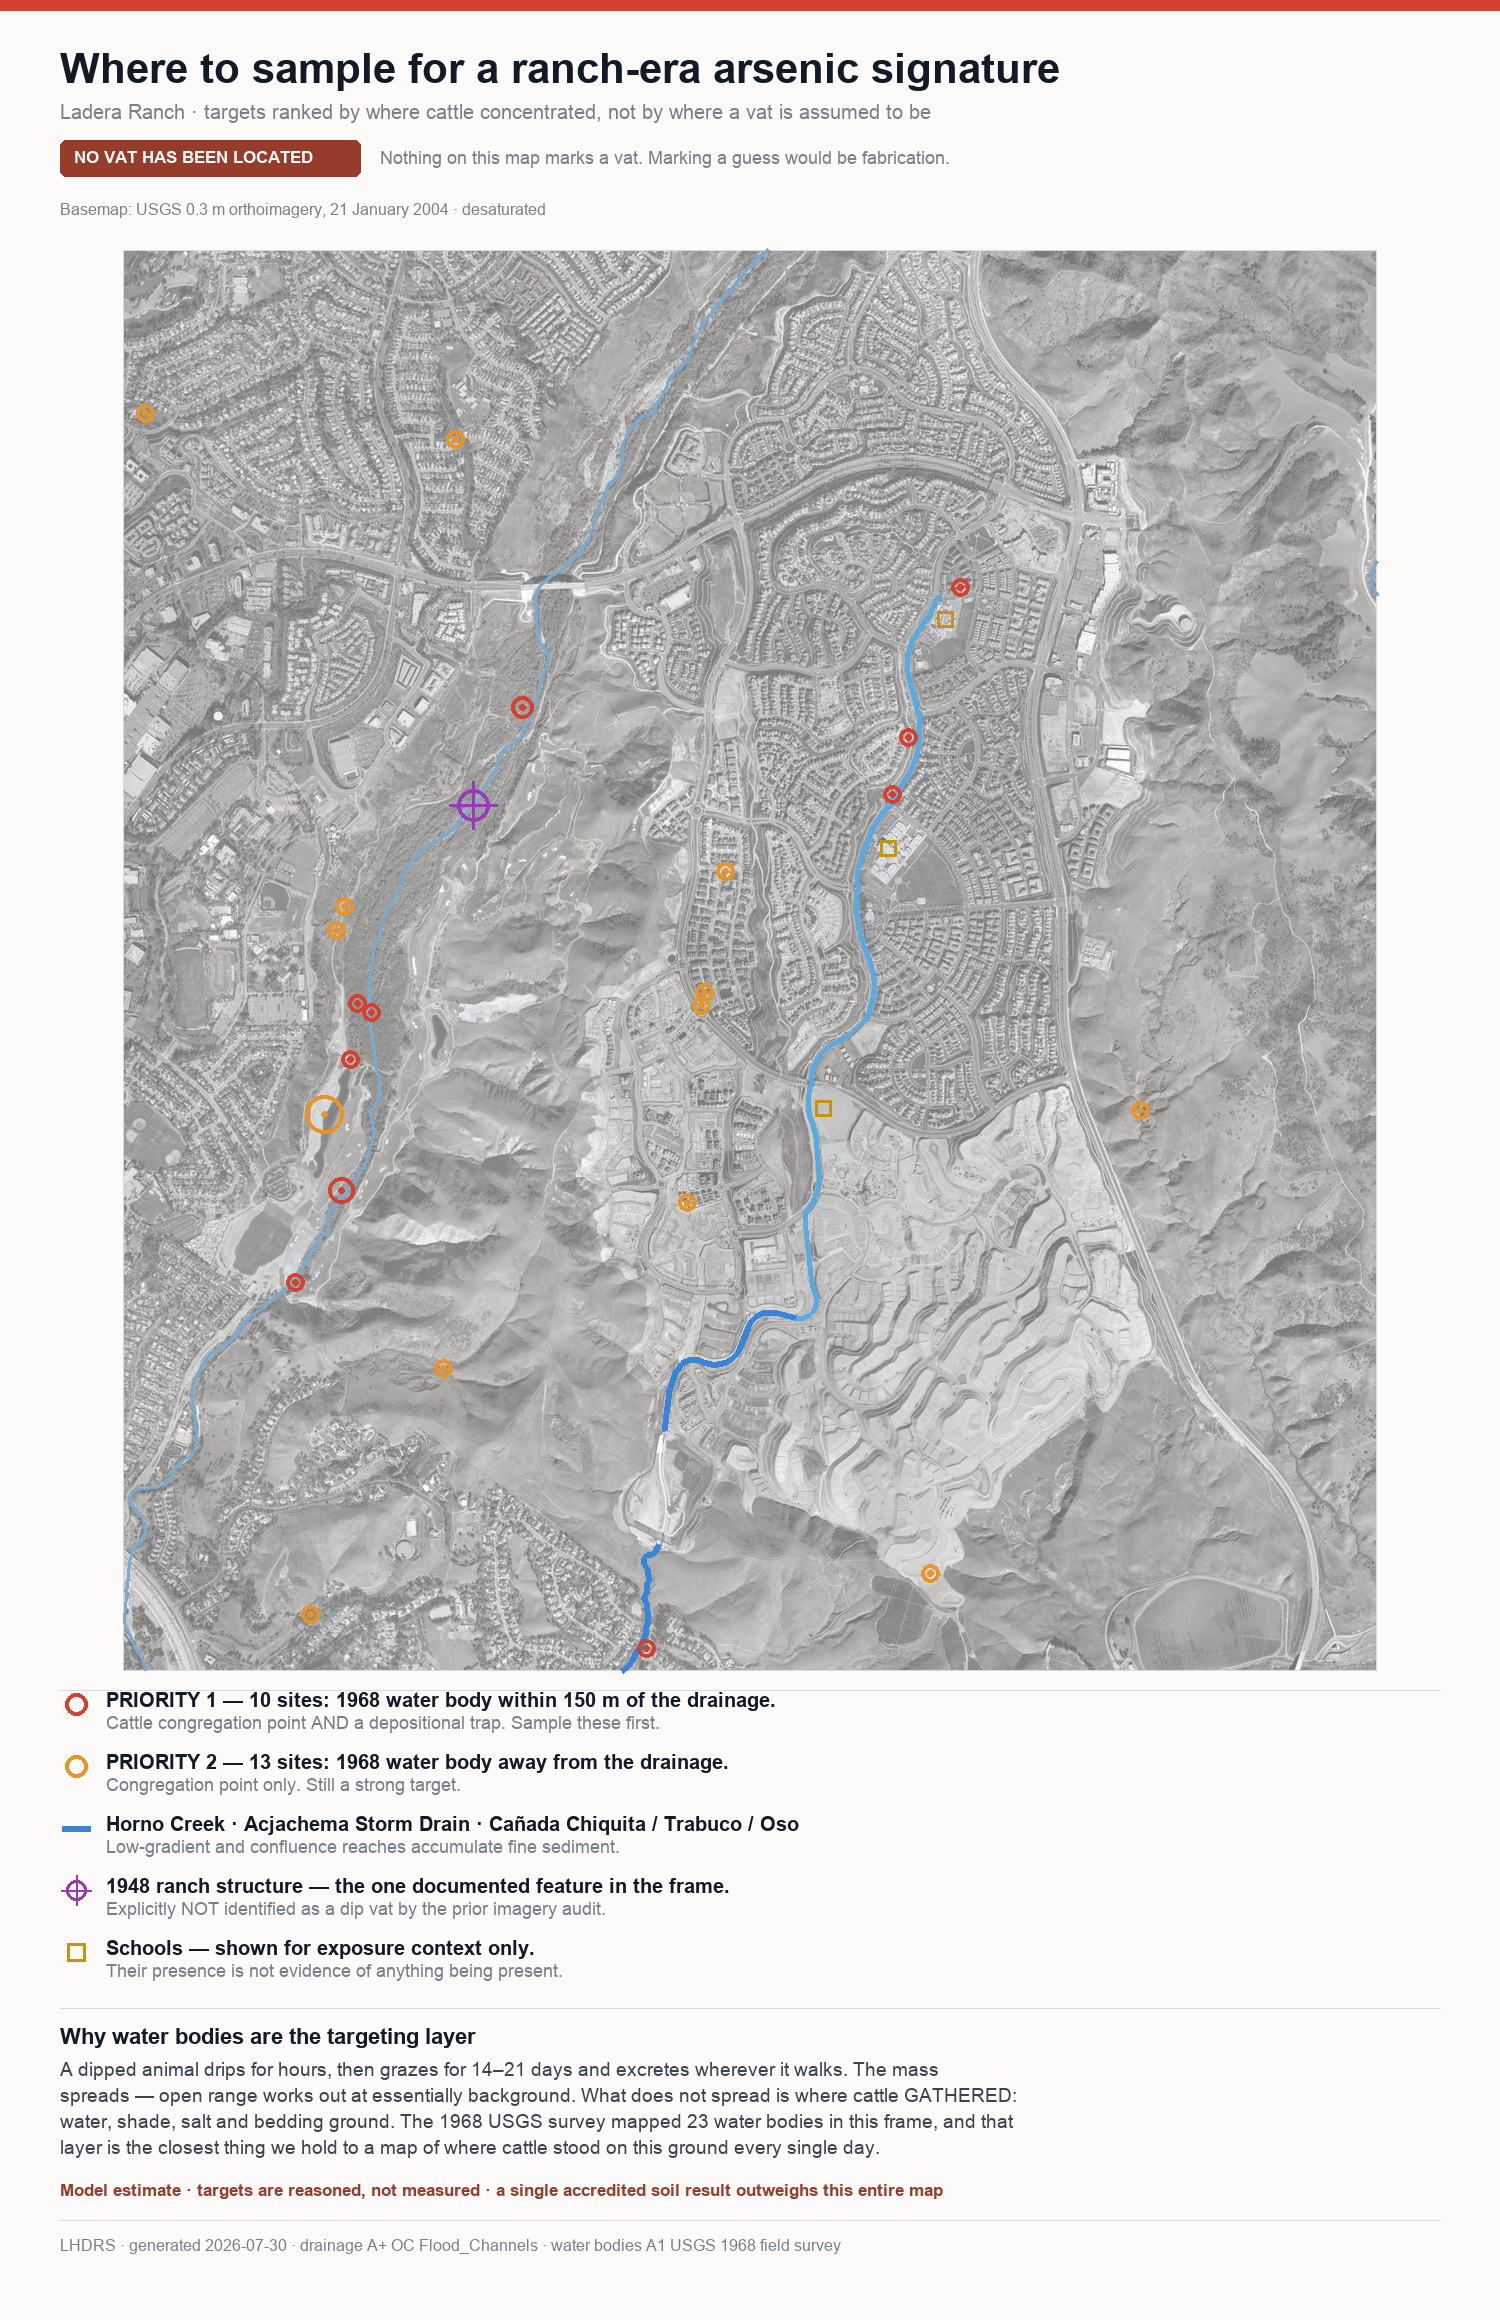
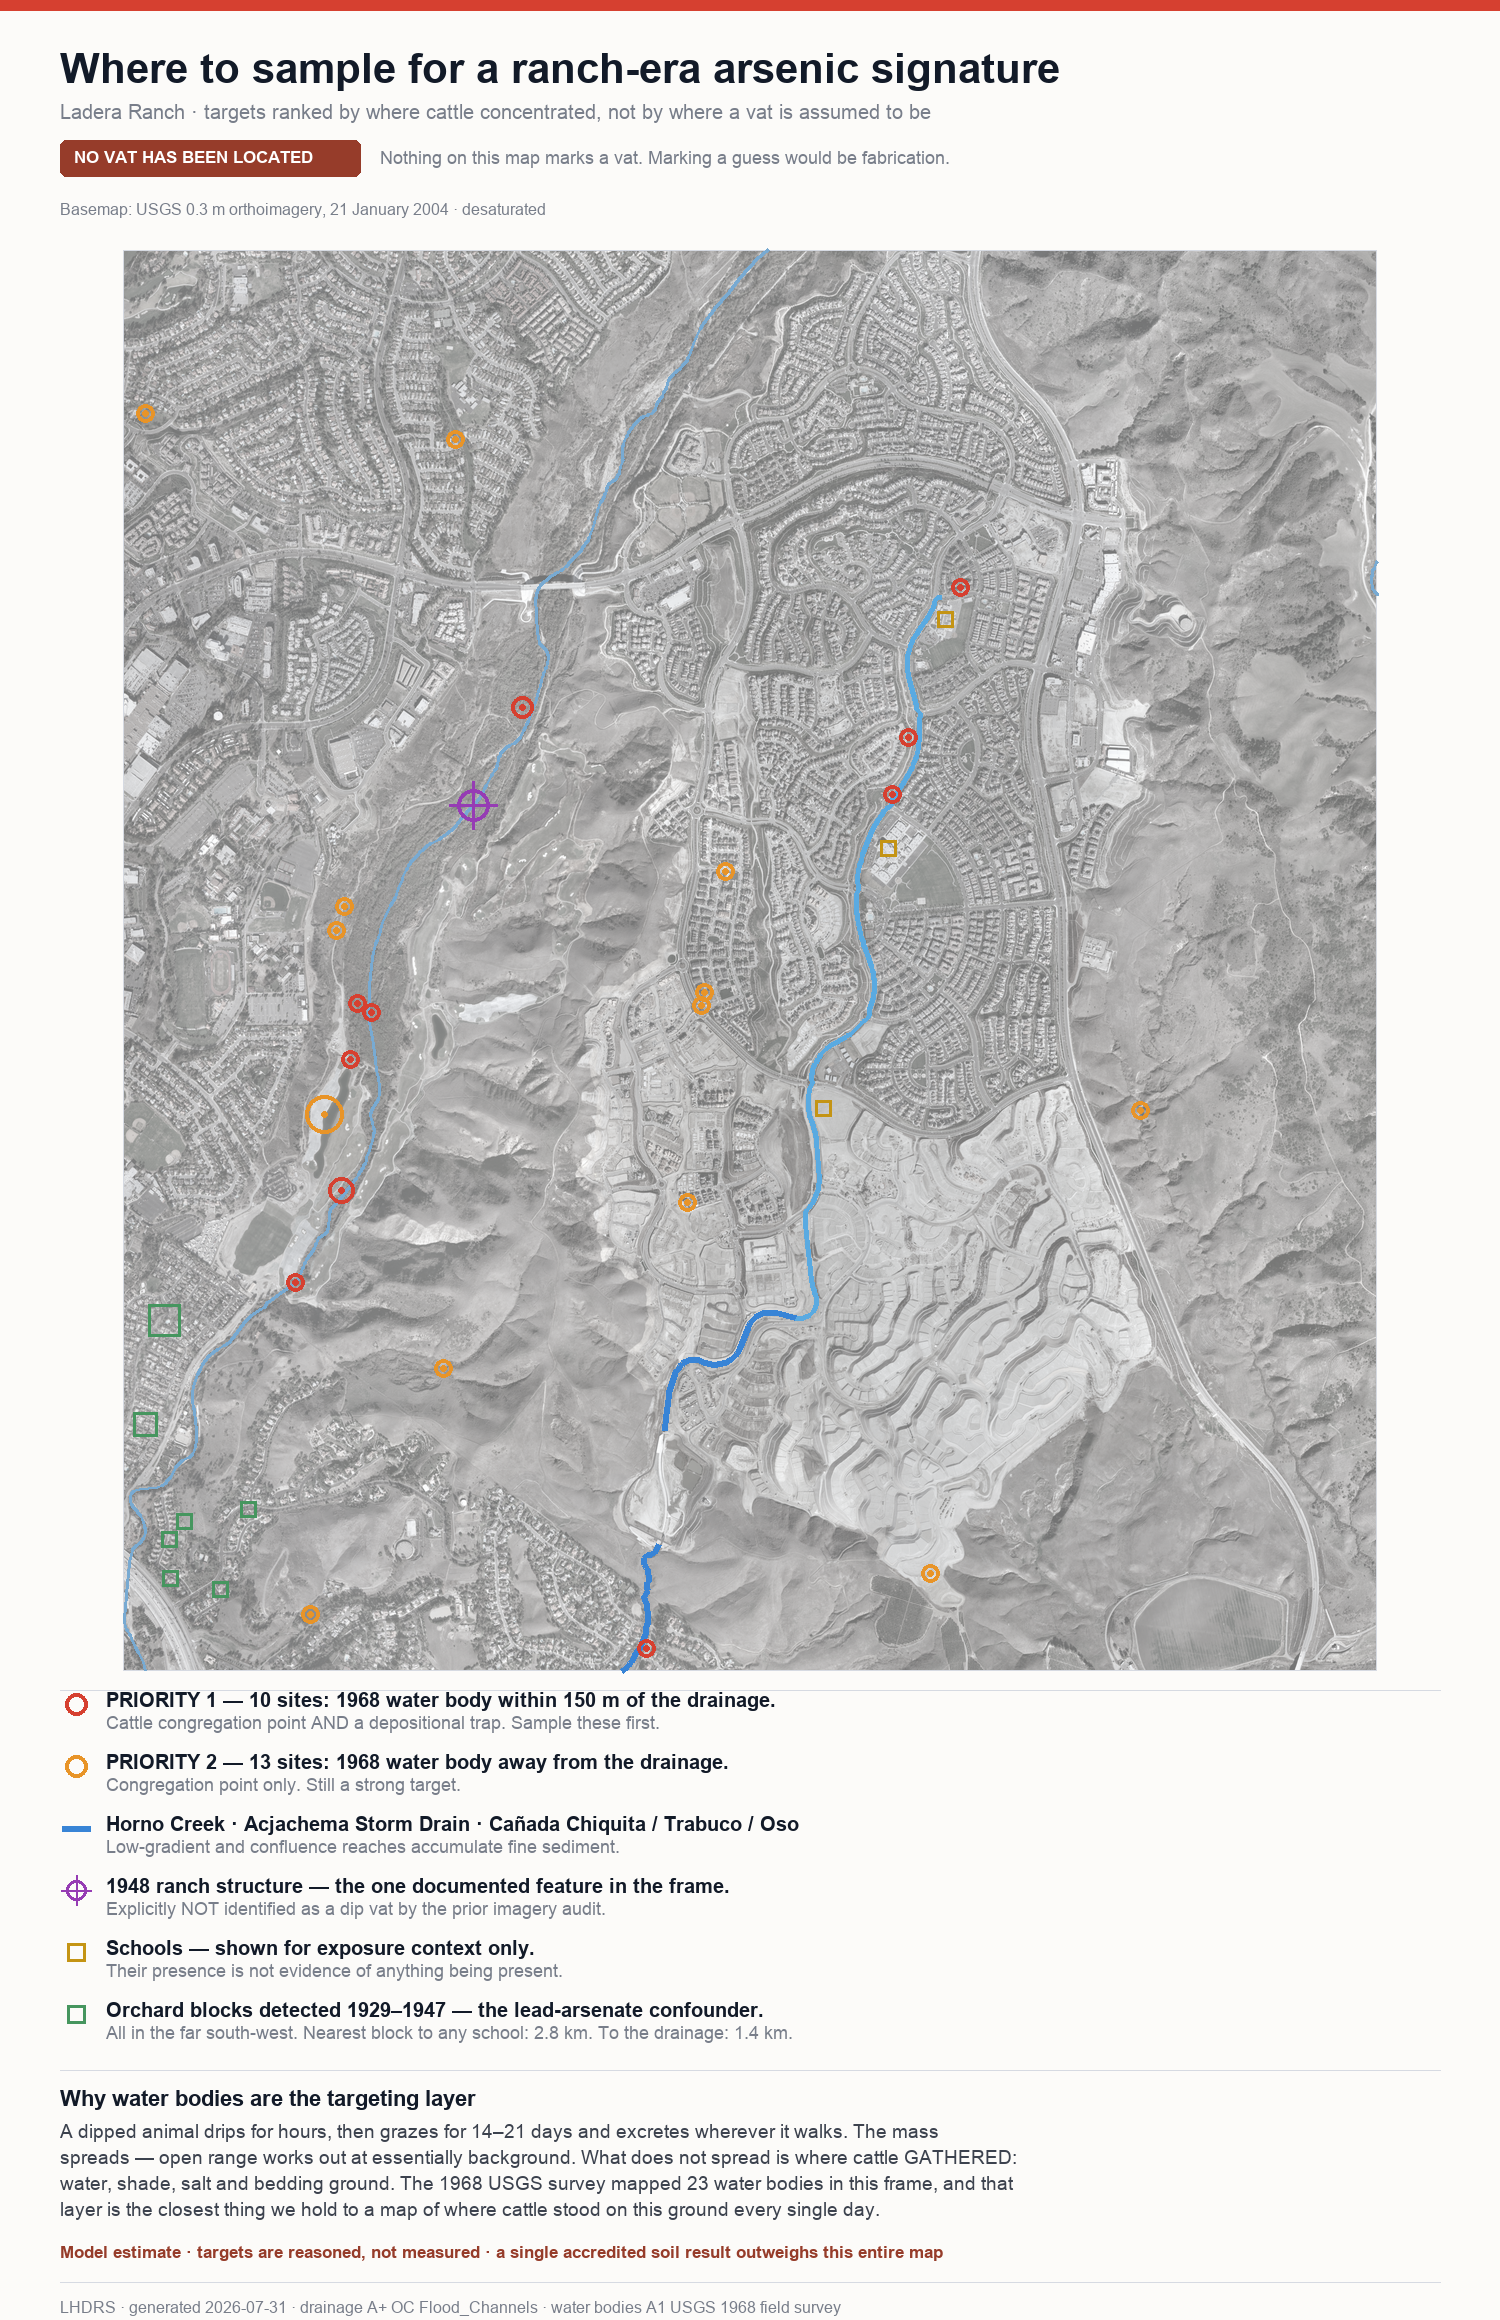
Sampling map v2: per-site reasoning, orchard confounder overlaid, artifact updated
Each of the 23 targets now carries its own reasoning: congregation-plus-deposition logic for the
ten drainage-adjacent sites, pond size where it marks a settling basin, distance to the nearest
present-day named feature for access context, and distance to the nearest detected orchard block -
which for every target exceeds 1.4 km, so a hit at any of them could not be casually attributed to
orchard lead-arsenate.

Map regenerated with the orchard blocks drawn in green where they actually sit (far south-west),
so the confounder's absence from the community core is visible rather than asserted.

Published artifact updated in place at the same URL with the per-site cards, the vat-hunt negative
stated in the warning box, the three-part targeting logic, and the sampling protocol (depth
cores, full analyte suite, matched comparisons, blinded accredited lab, negative result publishable).

Changed region(s): [[0.0307, 0.8379, 0.6747, 1.0], [0.092, 0.6517, 0.1227, 0.6828], [0.092, 0.5586, 0.1227, 0.5897]]

diff --git a/scripts/lhdrs_sampling_target_map.py b/scripts/lhdrs_sampling_target_map.py
@@ -119,6 +119,16 @@ for w in water:
     d.ellipse([x-r,y-r,x+r,y+r], outline=col, width=4)
     d.ellipse([x-3,y-3,x+3,y+3], fill=col)
 
+# ---- orchard blocks (the confounder), so the map shows where they are NOT --
+_os = os.path.join(REPO, "evidence/lhdrs/orchards/orchard_summary.json")
+if os.path.exists(_os):
+    for b in json.load(open(_os))["blockSummary"]:
+        la, lo = b["centroid"]
+        x, y = xy(lo, la)
+        if OX <= x <= OX+PW and OY <= y <= OY+PH:
+            r = max(8, min(20, int(math.sqrt(b["areaHa"]*10000)/25)))
+            d.rectangle([x-r, y-r, x+r, y+r], outline=PARKC, width=3)
+
 # ---- the 1948 ranch node ---------------------------------------------------
 nx,ny = xy(-117.65492, 33.55505)
 d.ellipse([nx-16,ny-16,nx+16,ny+16], outline=(150,60,180), width=4)
@@ -164,6 +174,8 @@ rows = [
                    "Explicitly NOT identified as a dip vat by the prior imagery audit."),
  (SCHOOL,"square", "Schools — shown for exposure context only.",
                    "Their presence is not evidence of anything being present."),
+ (PARKC, "square", "Orchard blocks detected 1929–1947 — the lead-arsenate confounder.",
+                   "All in the far south-west. Nearest block to any school: 2.8 km. To the drainage: 1.4 km."),
 ]
 for col, shape, t1, t2 in rows:
     cx = MAP_L+16
